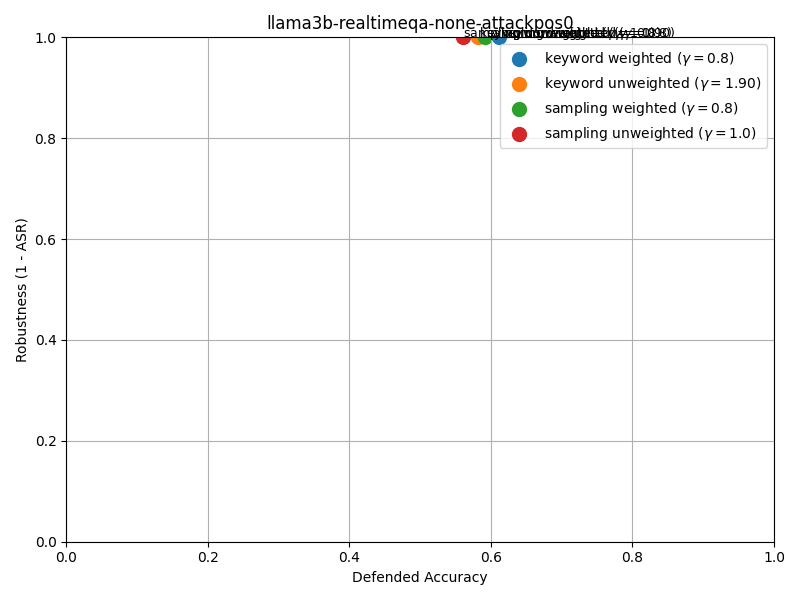
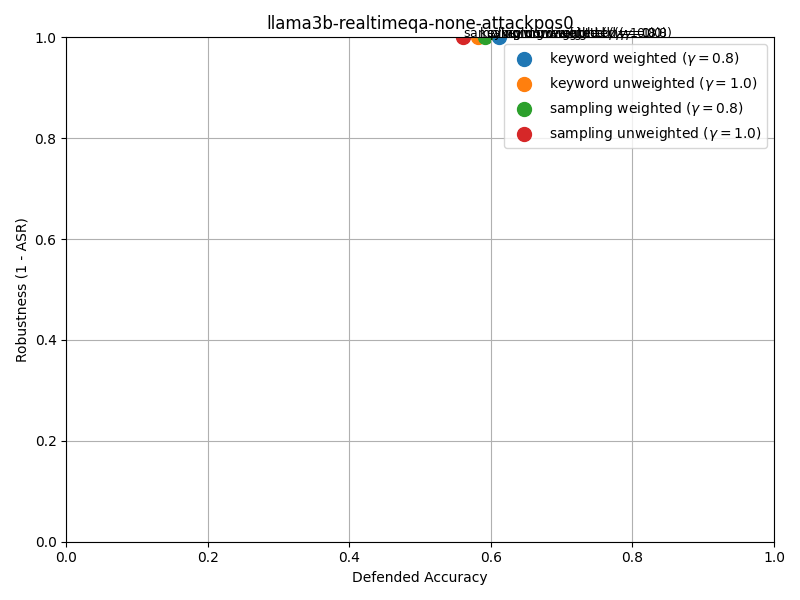
fix typo in pareto figures

Changed region(s): [[0.625, 0.09, 0.9688, 0.24], [0.8125, 0.03, 0.8438, 0.06]]

diff --git a/plot_pareto.py b/plot_pareto.py
@@ -19,7 +19,7 @@ for attack in ["none", "PIA", "Poison"]:
         # Define data points
         data = {
             "keyword weighted ($\gamma=0.8$)": get_metrics(keyword_df, gamma=0.8, rank=attack_position),
-            "keyword unweighted ($\gamma=1.90$)": get_metrics(keyword_df, gamma=1.0, rank=attack_position),
+            "keyword unweighted ($\gamma=1.0$)": get_metrics(keyword_df, gamma=1.0, rank=attack_position),
             "sampling weighted ($\gamma=0.8$)": get_metrics(sampling_df, gamma=0.8, rank=attack_position),
             "sampling unweighted ($\gamma=1.0$)": get_metrics(sampling_df, gamma=1.0, rank=attack_position),
         }
